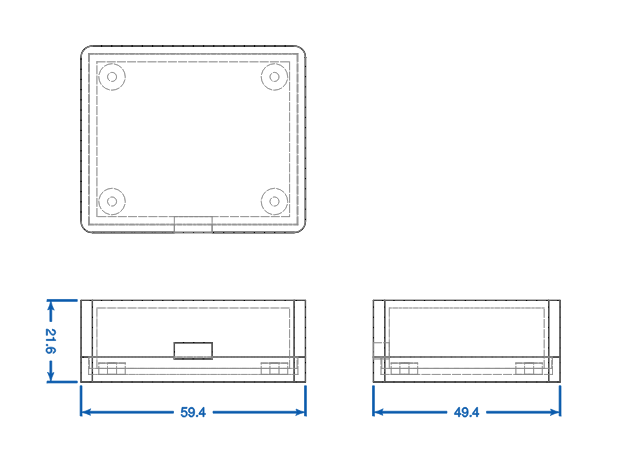
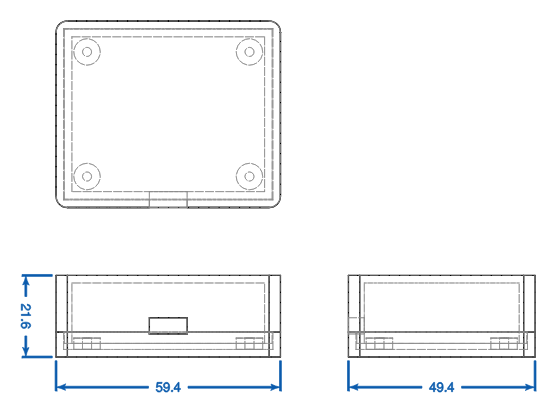
Scribe 5/9: renders from render.showcase; the line drawings are mech drawings
docs.figures takes the board, board-in-case and exploded photographs from
render.showcase (#250), coloured from the logo, its inputs the board, case
and logo. The case's exploded line drawing is a mech-drawing figure, so the
photographic exploded view keeps render-exploded.

Claude-Session: https://claude.ai/code/session_014dZPhYw2tgRnebqxVor3zF

Changed region(s): [[0.0916, 0.0291, 0.5189, 0.523], [0.0305, 0.6102, 0.5189, 0.9588], [0.5799, 0.6392, 0.9767, 0.9588]]

diff --git a/src/tools/docs/figures.ts b/src/tools/docs/figures.ts
@@ -3,7 +3,8 @@
  * tools and records so nothing in a document is drawn or typed by hand.
  *
  *   docs.values   the power, thermal and load values as rows and as ready tables (src/docs/values.ts)
- *   docs.figures  the board renders (render.board: top, bottom, three-quarter, in the fabrication's colours), the case's
+ *   docs.figures  the photographic renders (render.showcase: the board from above, below and three-quarter, and in its
+ *                 case and exploded when mech.build made one, coloured from the project's logo), the case's
  *                 drawings (python -m tracebridge.mech drawing on the case mech.build made: three dimensioned views and
  *                 an exploded view, a cad job on the tools function) and a timing diagram per protocol (protocol.diagram
  *                 of the newest protocol.model run of each), written to docs/design/figures with stable names, each
@@ -13,8 +14,8 @@
  * figure marker), a hash of what it was made from and its quality. A figure whose inputs have not changed is not made
  * again; a draft is replaced by a release render, never the other way round.
  *
- * quality: draft (Cycles, few samples, quick: while the board is still changing) or release (Cycles, many samples,
- * larger, for the printed copies). The tools function has no display, so Eevee is not used there.
+ * quality: draft (a quick look while the board is still changing) or release (for the printed copies), as
+ * render.showcase takes it. The tools function has no display, so Blender renders with Cycles there.
  */
 import { createHash } from 'node:crypto'
 import { existsSync, mkdirSync, readFileSync, rmSync, writeFileSync } from 'node:fs'
@@ -28,12 +29,15 @@ import { recordedValues, valuesTable } from '../../docs/values.js'
 import { backendFor, runJob } from '../../gpu/jobs.js'
 import { pyDir } from '../mech/engine.js'
 import { tools as protocolTools } from '../protocol/tools.js'
-import { tools as renderTools } from '../render/tools.js'
+import { logoPaths } from '../../docs/logo.js'
+import { showcase } from '../render/showcase.js'
 
 export const FIGURES_DIR = 'docs/design/figures'
 export const MANIFEST = `${FIGURES_DIR}/figures.json`
-const QUALITY = { draft: { width: 1280, height: 800, samples: 16 }, release: { width: 2400, height: 1500, samples: 128 } } as const
-type Quality = keyof typeof QUALITY
+type Quality = 'draft' | 'release'
+/** render.showcase's shots and the figure each becomes (src/docs/diagrams.ts). */
+export const SHOT_FIGURE = { 'board-top': 'render-top', 'board-bottom': 'render-bottom', board: 'render-iso', 'board-in-case': 'render-in-case', exploded: 'render-exploded' } as const
+const CASE_FILES = ['mechanical/out/case-base.stl', 'mechanical/out/case-lid.stl']
 
 export interface FigureEntry { file: string; kind: string; source: string; inputs: string; quality?: Quality; made: string }
 export type Manifest = Record<string, FigureEntry>
@@ -87,8 +91,9 @@ const values = defineTool({
 
 const figures = defineTool({
   name: 'docs.figures',
-  description: 'Make the figures the project\'s documents carry, into docs/design/figures with stable names: the board renders (render.board top, bottom and three-quarter, in the fabrication\'s solder mask and silkscreen colours; quality draft or release) and a timing diagram for each protocol modelled (protocol.diagram). A figure whose inputs have not changed is kept. Returns each figure with the run that made it, for its marker\'s source.',
+  description: 'Make the figures the project\'s documents carry, into docs/design/figures with stable names: the photographic renders (render.showcase: the board from above, below and three-quarter, and in its case and exploded when mech.build made a case; coloured from the logo; quality draft or release), the case\'s dimensioned and exploded line drawings and a timing diagram for each protocol modelled (protocol.diagram). A figure whose inputs have not changed is kept. Returns each figure with the run that made it, for its marker\'s source.',
   input: z.object({
+    revision: z.string().regex(/^[A-Z]{1,3}$/).default('A').describe('the revision the renders are of'),
     quality: z.enum(['draft', 'release']).default('draft').describe('draft: quick, while the board changes; release: for the printed copies'),
     renders: z.boolean().default(true),
     timing: z.boolean().default(true),
@@ -107,22 +112,29 @@ const figures = defineTool({
     const now = new Date().toISOString()
 
     if (a.renders) {
-      const inputs = boardInputs(root, `${a.mask_color}${a.silk_color}`)
+      // render.showcase (docs/revision-renders.md): the board's shots, and the case's when mech.build made one;
+      // coloured from the project's logo. Its inputs are the board, the case and the logo, so are these figures'.
+      const hasCase = CASE_FILES.every((f) => existsSync(join(root, f)))
+      const inputs = boardInputs(root, [`${a.mask_color}${a.silk_color}`, ...(hasCase ? CASE_FILES : []), ...logoPaths('light')].map((f) => existsSync(join(root, f)) ? `${f}:${createHash('sha256').update(readFileSync(join(root, f))).digest('hex')}` : f).join('|'))
+      const shots = (Object.keys(SHOT_FIGURE) as (keyof typeof SHOT_FIGURE)[]).filter((s) => hasCase || !s.includes('case') && s !== 'exploded')
       if (!inputs) notes.push('No board yet: no renders.')
-      else if (['top', 'bottom', 'iso'].every((v) => !stale(manifest[`render-${v}`], inputs, a.quality))) kept.push('render-top', 'render-bottom', 'render-iso')
+      else if (shots.every((s) => !stale(manifest[SHOT_FIGURE[s]], inputs, a.quality))) kept.push(...shots.map((s) => SHOT_FIGURE[s]))
       else {
-        const q = QUALITY[a.quality]
-        const r = await call(renderTools, 'render.board', { ...(a.project ? { project: a.project } : {}), views: ['top', 'bottom', 'iso'], mask_color: a.mask_color, silk_color: a.silk_color, ...q, engine: 'cycles', background: 'light' }, ctx)
+        if (!hasCase) notes.push('No case built yet (mech.build): the board is rendered on its own.')
+        const r = await call([showcase], 'render.showcase', { revision: a.revision, ...(a.project ? { project: a.project } : {}), shots, quality: a.quality, mask_color: a.mask_color, silk_color: a.silk_color }, ctx)
         const run = String(r.run_id)
+        const byShot = new Map(Object.entries((r.shots ?? {}) as Record<string, string>).map(([name, shot]) => [shot, name]))
         const work = new Work()
         try {
-          for (const v of ['top', 'bottom', 'iso']) {
-            const bytes = work.getArtifact(run, `${v}.png`)
-            if (!bytes) throw new ToolError(`render.board made no ${v} view (run ${run})`)
-            const file = `${FIGURES_DIR}/render-${v}.png`
+          for (const s of shots) {
+            const name = byShot.get(s)
+            const bytes = name ? work.getArtifact(run, name) : null
+            if (!bytes) throw new ToolError(`render.showcase made no ${s} picture (run ${run})`)
+            const key = SHOT_FIGURE[s]
+            const file = `${FIGURES_DIR}/${key}.png`
             writeFileSync(join(root, file), bytes)
-            manifest[`render-${v}`] = { file, kind: `render-${v}`, source: `run:${run}`, inputs, quality: a.quality, made: now }
-            made.push(manifest[`render-${v}`]!)
+            manifest[key] = { file, kind: key, source: `run:${run}`, inputs, quality: a.quality, made: now }
+            made.push(manifest[key]!)
           }
         } finally {
           work.db.close()
@@ -155,7 +167,7 @@ const figures = defineTool({
               throw new ToolError(`the case could not be drawn: ${why}`)
             }
             const facts = r.outputs['drawing.json'] ? JSON.parse(readFileSync(r.outputs['drawing.json'], 'utf8')) as Record<string, unknown> : {}
-            for (const [key, path, kind] of [['mech-drawing', svg, 'mech-drawing'], ['mech-exploded', exploded, 'render-exploded']] as const) {
+            for (const [key, path, kind] of [['mech-drawing', svg, 'mech-drawing'], ['mech-exploded', exploded, 'mech-drawing']] as const) {
               const bytes = readFileSync(path)
               work.artifact(id, `${key}.svg`, bytes, 'image/svg+xml')
               const file = `${FIGURES_DIR}/${key}.svg`

diff --git a/src/docs/diagrams.ts b/src/docs/diagrams.ts
@@ -40,8 +40,8 @@ export const FIGURES = {
   'render-bottom': { maker: 'blender', what: 'the underside of the board' },
   'render-iso': { maker: 'blender', what: 'the board at three-quarter view' },
   'render-in-case': { maker: 'blender', what: 'the board in its case' },
-  'render-exploded': { maker: 'build123d', what: 'the case and board taken apart, as a line drawing' },
-  'mech-drawing': { maker: 'build123d', what: 'a dimensioned drawing of the case and board' },
+  'render-exploded': { maker: 'blender', what: 'the case and board taken apart' },
+  'mech-drawing': { maker: 'build123d', what: 'a line drawing of the case: its dimensioned views, or its parts drawn apart' },
   'timing-diagram': { maker: 'protocol', what: 'signal timing against its limits' },
   'decoded-trace': { maker: 'protocol', what: 'a captured or simulated bus exchange, decoded' },
 } as const satisfies Record<string, FigureDef>

diff --git a/docs/scribe.md b/docs/scribe.md
@@ -111,12 +111,12 @@ Each layer is one pull request that builds and passes on its own.
 5. **Figures and values**: `docs.values` (`src/docs/values.ts`: the power budget per rail, junction temperatures
    from thermal.check with their margins, bench readings from thermal.measure, each with its basis and source, as
    ready tables; nothing records loads yet, so load rows stay pending) and `docs.figures` (`src/tools/docs/figures.ts`):
-   the board renders from render.board in the fabrication's colours, draft or release quality; the case's three
-   dimensioned views and exploded view (`python -m tracebridge.mech drawing`, a cad job); a timing diagram per protocol
-   modelled. Figures go to `docs/design/figures` with stable names and `figures.json` (each one's run, inputs hash and
-   quality), so an unchanged figure is never made again and a draft is replaced only by a release. Draft renders use
-   Cycles at few samples rather than Eevee, which cannot run on the tools function (no display). The board in its case
-   as a photographic render is left for later: the exploded drawing shows how they go together.
+   the photographic renders from `render.showcase` (docs/revision-renders.md: the board from above, below and
+   three-quarter, and in its case and exploded once mech.build made a case, coloured from the logo, draft or release
+   quality); the case's three dimensioned views and its parts drawn apart as line drawings (`python -m tracebridge.mech
+   drawing`, a cad job); a timing diagram per protocol modelled. Figures go to `docs/design/figures` with stable names
+   and `figures.json` (each one's run, inputs hash and quality), so an unchanged figure is never made again and a draft
+   is replaced only by a release. Blender renders with Cycles: Eevee cannot run on the tools function (no display).
 6. **Scribe**: the `docs` specialist (Sonnet writes, Haiku triages), its prompt in the catalog, stacked pull requests.
 7. **Events and gates**: hand-off on merge, gate and journey changes; the nightly drift check; the "documents
    current" SHACL shape, run over the graph with the documents read in; published copies to the central bucket and
